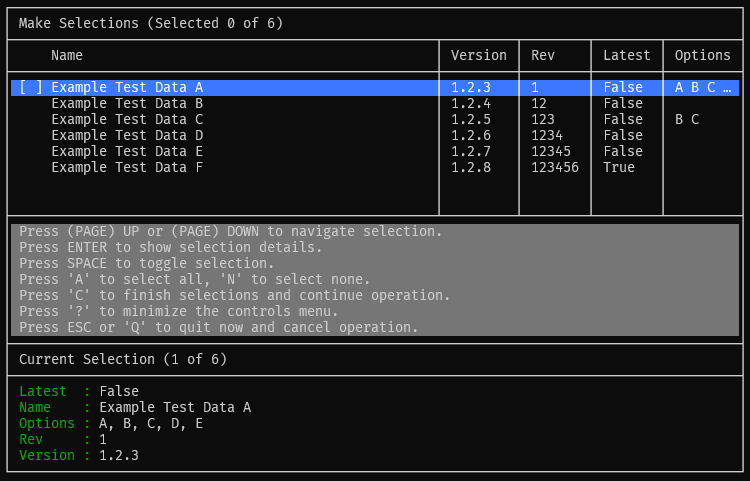
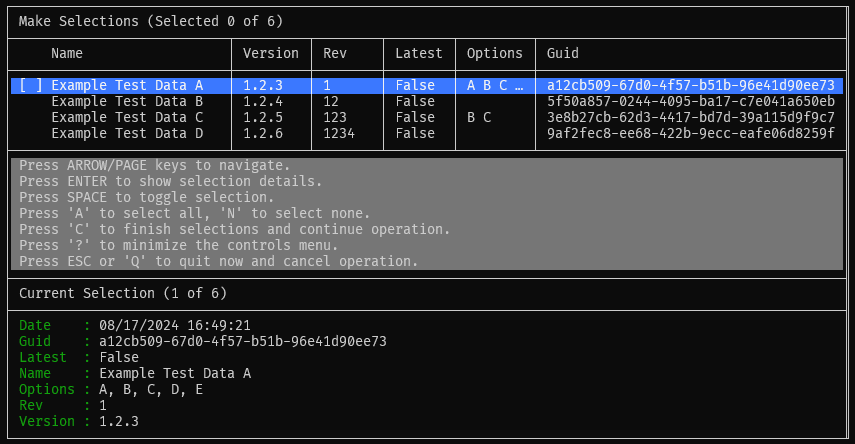
Updated README example
Further expands on the example usage.

diff --git a/README.md b/README.md
@@ -64,16 +64,16 @@ parameters such as `-SelectedItemMembersToShow` can be added as needed.
 
 ```pwsh
 $tableData = @(
-  [PSCustomObject]@{Name = 'Example Test Data A'; Version = '1.2.3'; Rev = 1; Latest = $false; Options = @('A', 'B', 'C', 'D', 'E') },
-  [PSCustomObject]@{Name = 'Example Test Data B'; Version = '1.2.4'; Rev = 12; Latest = $false },
-  [PSCustomObject]@{Name = 'Example Test Data C'; Version = '1.2.5'; Rev = 123; Latest = $false; Options = @('B', 'C') },
-  [PSCustomObject]@{Name = 'Example Test Data D'; Version = '1.2.6'; Rev = 1234; Latest = $false },
-  [PSCustomObject]@{Name = 'Example Test Data E'; Version = '1.2.7'; Rev = 12345; Latest = $false },
-  [PSCustomObject]@{Name = 'Example Test Data F'; Version = '1.2.8'; Rev = 123456; Latest = $true }
+  [PSCustomObject]@{Name = 'Example Test Data A'; Version = '1.2.3'; Date = [DateTime]::Now; Guid = (New-Guid); Rev = 1; Latest = $false; Options = @('A', 'B', 'C', 'D', 'E') },
+  [PSCustomObject]@{Name = 'Example Test Data B'; Version = '1.2.4'; Date = [DateTime]::Now; Guid = (New-Guid); Rev = 12; Latest = $false },
+  [PSCustomObject]@{Name = 'Example Test Data C'; Version = '1.2.5'; Date = [DateTime]::Now; Guid = (New-Guid); Rev = 123; Latest = $false; Options = @('B', 'C') },
+  [PSCustomObject]@{Name = 'Example Test Data D'; Version = '1.2.6'; Date = [DateTime]::Now; Guid = (New-Guid); Rev = 1234; Latest = $false },
+  [PSCustomObject]@{Name = 'Example Test Data E'; Version = '1.2.7'; Date = [DateTime]::Now; Guid = (New-Guid); Rev = 12345; Latest = $false },
+  [PSCustomObject]@{Name = 'Example Test Data F'; Version = '1.2.8'; Date = [DateTime]::Now; Guid = (New-Guid); Rev = 123456; Latest = $true }
 )
 
 $selections = @()
-Show-TableUI -Table $tableData -Selections ([ref]$selections) -DefaultMemberToShow @('Name', 'Version', 'Rev', 'Latest', 'Options')
+Show-TableUI -Table $tableData -Selections ([ref]$selections) -DefaultMemberToShow @('Name', 'Version', 'Rev', 'Latest', 'Options', 'Guid', 'Date')
 ```
 
 ![Test Example](img/test-ui.png)
